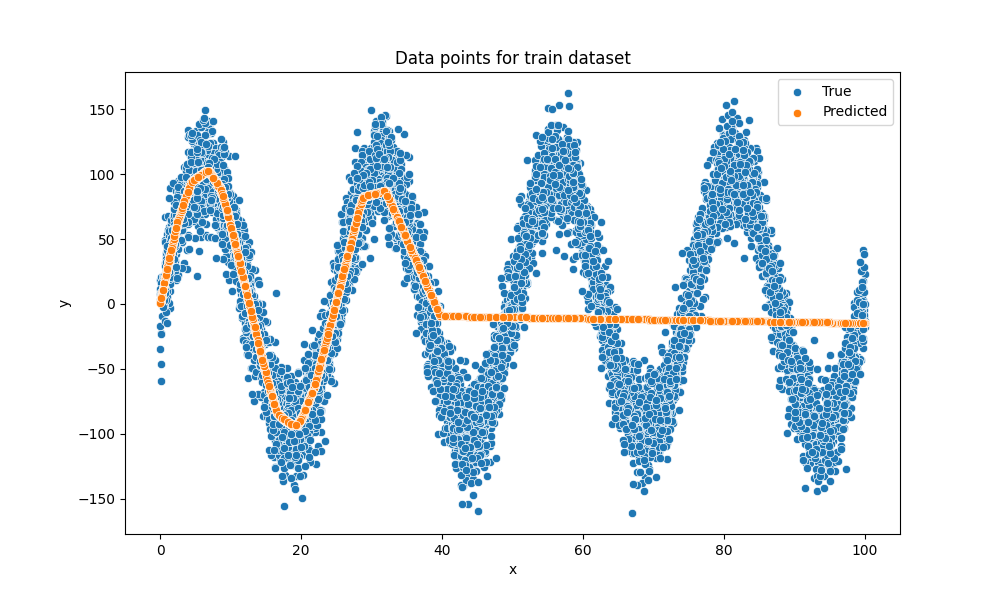
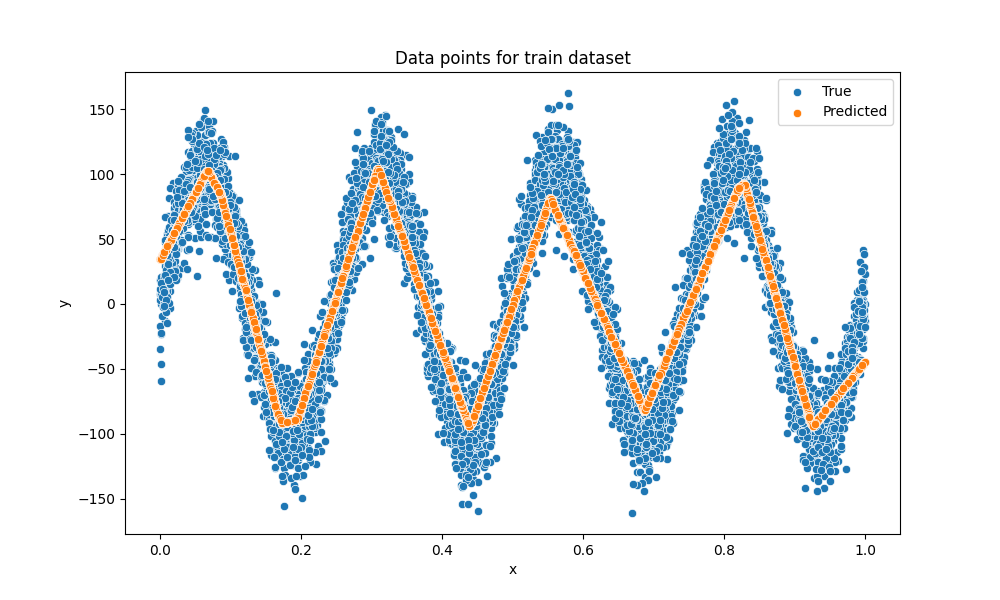
Actualizar métricas y mejorar el dataset en el ejercicio 03; ajustar el modelo a 128 neuronas y aumentar las épocas a 400.

diff --git a/src/exercise_03/train.py b/src/exercise_03/train.py
@@ -44,12 +44,12 @@ def train_model(output_folder: Path, device: torch.device):
     # Define the model, loss function, and optimizer
     input_dim = 1
     output_dim = 1
-    model = MultiLayerPerceptron(input_dim, output_dim, num_hidden_neurons=64, apodo="exercise_03").to(device)
+    model = MultiLayerPerceptron(input_dim, output_dim, num_hidden_neurons=128, apodo="exercise_03").to(device)
     criterion = nn.MSELoss()
     optimizer = optim.AdamW(model.parameters(), lr=0.001) # AdamW es el algoritmo de optimización y lr es la tasa de aprendizaje (learning rate)
 
     # Training loop with validation and saving best weights
-    num_epochs = 200 # Aumentamos de 100 a 200 por el validation loss seguía bajando
+    num_epochs = 400 # Aumentamos de 100 a 200 por el validation loss seguía bajando
     best_val_loss = float("inf")
     best_model_path = output_folder / "best_model.pth"
 
@@ -129,3 +129,10 @@ if __name__ == "__main__":
     # con una relu y a 400 epocas el best validation es a 3711
     # con dos relu y a 200 epocas el best validation es a 3294
     # con dos relu, 128 neuronas y a 200 epocas el best validation es a 3294
+    # si está normalizada el validation loss baja a 2425 con 200 epocas y 64 neuronas
+    # No se van a poner 128 neuronas porque no merece la pena
+    # 2415 con 300 epocas
+    # 2398 con 400 epocas
+    # 672 con 400 epocas y 128 neuronas
+
+    # las 128 neuronas están en fila

diff --git a/src/exercise_03/dataset.py b/src/exercise_03/dataset.py
@@ -20,9 +20,29 @@ class NoisyRegressionDataset(Dataset):
     """
     def __init__(self, noise_std=20, size=100, seed=42):
         np.random.seed(seed)
+
+        # 1. Generar x original
+        x_raw = np.random.uniform(0, 100, size=(size,))
+
+        # 2. Normalizar SOLO para el modelo
+        x_norm = x_raw / 100.0
+
+        # 3. Generar y usando x ORIGINAL
+        y = 100 * np.sin(8 * np.pi * x_raw / 100) + 2
+        y += np.random.normal(0, noise_std, size=(size,))
+
+
+        self.x = x_norm
+        self.y = y
+
+
+        """
         self.x = np.random.uniform(0, 100, size=(size,))
         self.delta = np.random.normal(0, noise_std, size=(size,))
         self.y = 100 * np.sin(8 * numpy.pi * self.x / 100) + 2 + self.delta
+        """
+
+
         # Create a DataFrame for visualization
         df = pd.DataFrame(data=np.array([self.x, self.y]).transpose(), columns=["x", "y"])
         self.df = df

diff --git a/src/exercise_03/evaluate.py b/src/exercise_03/evaluate.py
@@ -119,7 +119,7 @@ if __name__ == "__main__":
 
     # Load the best model weights
     model = MultiLayerPerceptron(
-        input_dim=1, output_dim=1, num_hidden_neurons=64, apodo="exercise_03"
+        input_dim=1, output_dim=1, num_hidden_neurons=128, apodo="exercise_03"
     )
     model.load_state_dict(torch.load(output_folder / "best_model.pth"))
 
